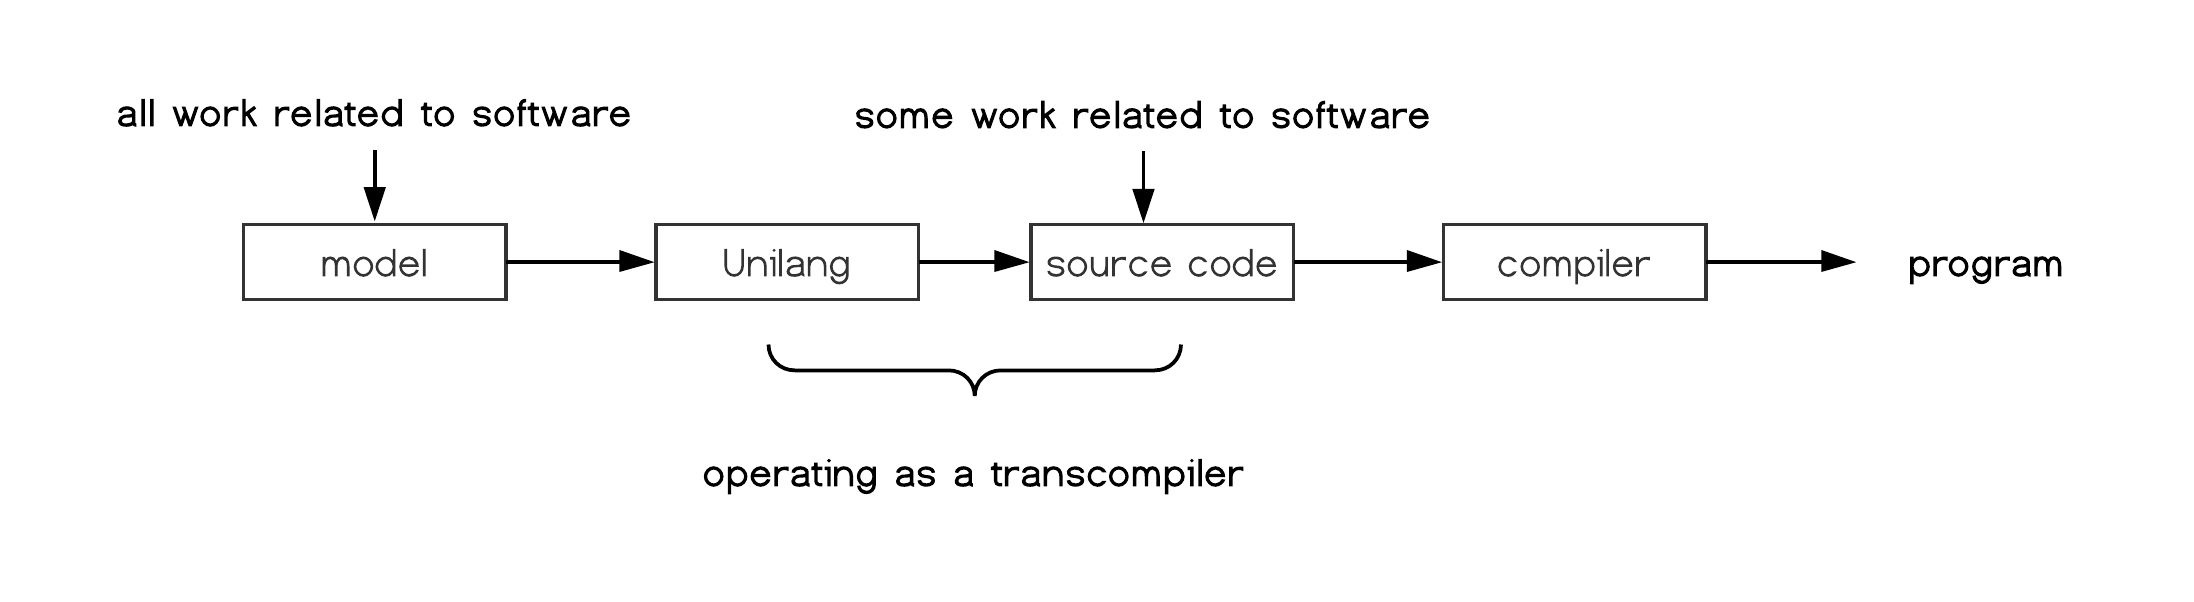
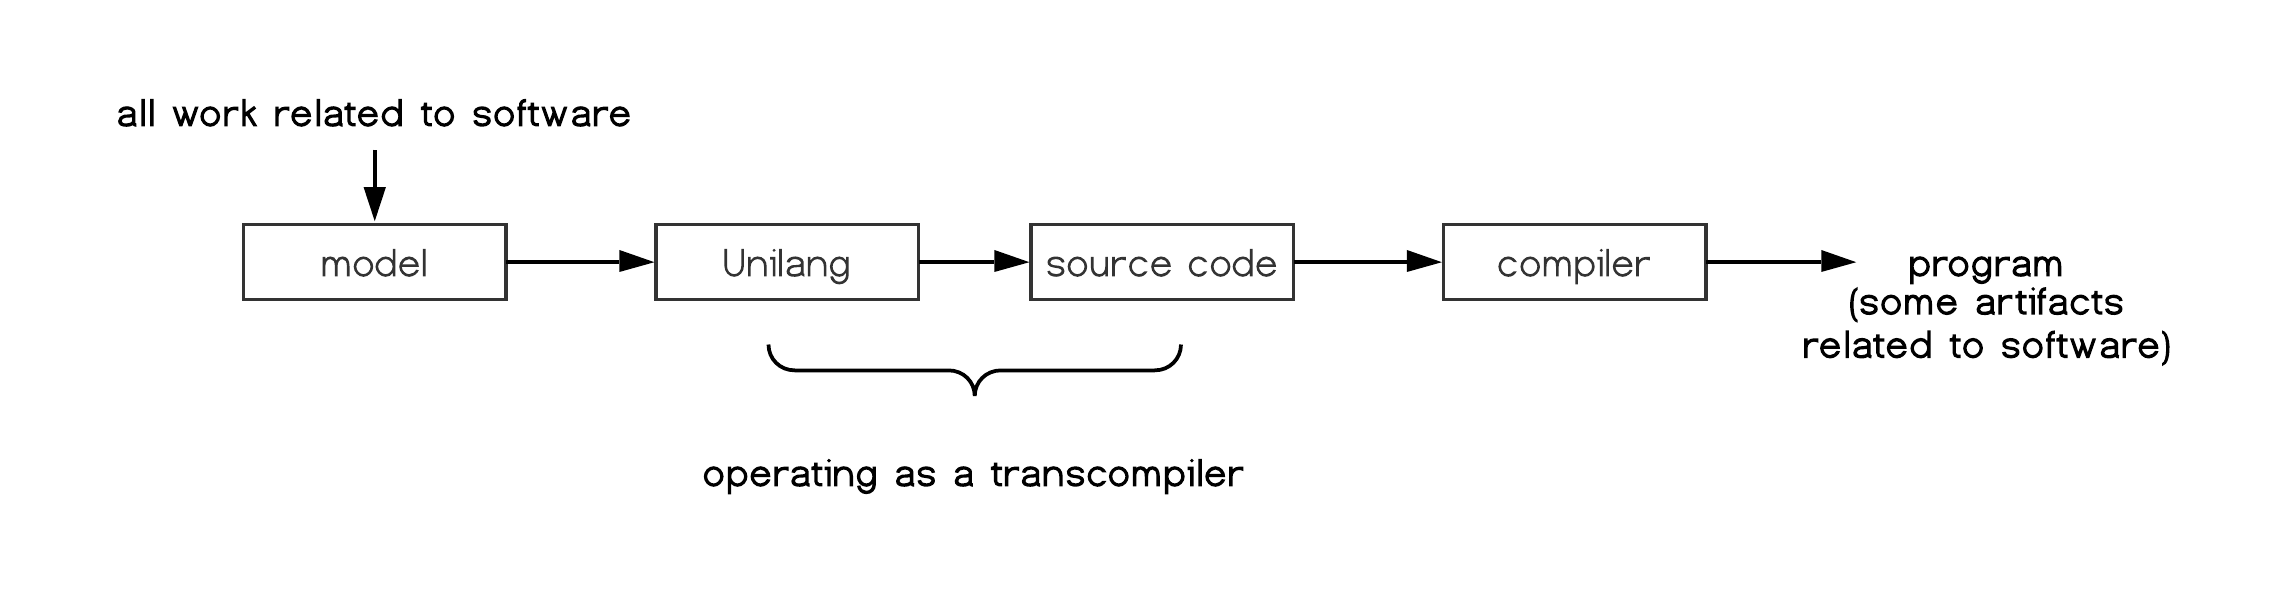
updates

diff --git a/README.md b/README.md
@@ -8,22 +8,24 @@
 # Introduction
 
 ## Overview
-Welcome to the world of Unilang.  In this section we'll provide a high level overview on what unilang does.  You will gain an understanding of how unilang compares to other programming languages, and through this comparison, how it is fundamentally different.  We'll start by getting you acquainted with the big picture.  Unilang is a tool for writing software.  And like all tools in software, it takes an input and produces an output.  The scope of unilang's throughput however is ambitious.  Everything a software engineer can express around a problem domain must be encoded in the same ontology.  We find this necessary in maximizing our current understanding of the problem domain, and adapting to its change over time.  The output of this ontology is every chosen artifact that facilitates desired tasks in that domain.  From a programming perspective, we unify all formal and informal languages involved around software.  This information is encoded as a single abstract data model which is used to create various artifacts.  
-![very high level overview of unilang](.readme/unilang_overview.png "")
+Welcome to the world of Unilang; the self proclaimed universal programming language.  Unilang is a reconstructed approach on how language should be used to facilitate the creation of software.  In this introductory section we will give an overview on how Unilang is used in the context of software engineering.  We also compare Unilang with other programming languages to show the similarities and key differences between them.  The key take-away from this, is that Unilang is not competing with other programming languages.  It embraces them in its own implementation.  A primary focus when first introducing Unilang is a discussion around encoded information and software-related artifacts.  We discuss what engineers need to encode while working in a problem domain, and what products should come from such an encoding.  A conclusion is made that engineers are not encoding everything necessary due to the limitations and scope of individual tools.  The effect of not having a universal encoding results in multiple encodings across different languages which makes maintenance less feasible over time.  An argument is made that more concepts related to software must be semantically encoded at the language level.  How this is achieved from a practical perspective is explored later.  
+
+So let's start by getting you acquainted with the big picture.  Unilang is a tool for writing software.  And like all tools in software, it takes an input and produces an output.  The scope of Unilang's throughput however is ambitious.  Everything a software engineer can express around a problem domain must be encoded in the same ontology.  We find this necessary in maximizing our current understanding of the problem domain, and adapting to its change over time.  The output of this ontology is every chosen artifact that facilitates desired tasks in that domain.  From a programming perspective, we unify all formal and informal languages involved around software.  This information is encoded as a single abstract data model which is used to create various artifacts.  
+![very high level overview of Unilang](.readme/unilang_overview.png "")
 
 The diagram above is intentionally vague.  However, we can use it to compare the transformation process of source code in other programing languages.  The scope of these other languages do not entail all of the work that needs to be done in a real-world software engineering context.  
 ![high level overview of a GPL](.readme/typical_gpl_overview.png "")
 
-The goals of general purpose programming languages (GPLs) shwon above, are also realized within Unilang.  Unilang can be used to generate programs for any domain.  A key feature of unilang is that it can even target the source code of all other GPLs.  This means that unilang can be easily adopted in current systems as a transcompiler to other programming languages.  
-![unilang as a transcompiler](.readme/unilang_as_a_transcompiler.png "")
+The goals of general purpose programming languages (GPLs) shown above, are also realized within Unilang.  Unilang can be used to generate programs for any domain.  A key feature of Unilang is that it can even target the source code of all other GPLs.  This means that Unilang can be easily adopted in current systems as a transcompiler to other programming languages.  
+![Unilang as a transcompiler](.readme/unilang_as_a_transcompiler.png "")
 
 There are many other types of artifacts that should be created alongside software.  Unilang facilitates the creation of these artifacts as well.  
-![unilang to many artifacts](.readme/unilang_to_many_artifacts.png "")
+![Unilang to many artifacts](.readme/unilang_to_many_artifacts.png "")
 
 In fact, what you are reading now was generated from Unilang.  
 
 ## Motivation
-TODO.  
+The motivation behind Unilang has grown organically while working as a software engineer.  It serves a purpose both practical and personal from working in the industry.  In this section we will cover the specific motivations around Unilang.  
 
 ### Practical
 TODO.  
@@ -32,28 +34,36 @@ TODO.
 TODO.  
 
 # Language Design
-In this section, we will discuss the theory of what a programming language should be.  We show how these ideas are applied in shaping the design of unilang.  
+In this section, we will discuss the theory of what a programming language should be.  We show how these ideas are applied in shaping the design of Unilang.  
 
 ## The hierarchy of language
 Consider the current language abstractions within the software engineering domain.  Unilang and its conceptual model are placed above these high level languages.  
-![software engineering language abstraction with unilang placed at the top](.readme/language-abstraction.png "")
+![software engineering language abstraction with Unilang placed at the top](.readme/language-abstraction.png "")
 
 Unilang can transcompile down to other languages.  
 
 ## The structure of language
-Many programming languages represent their syntactic structure as an abstract syntax tree.  Other languages like Lisp and its derivations choose nested lists.  The structure of unilang is a composed set of algebraic data types.  
-![choosing the unilang structure](.readme/choosing-structure.png "")
+Many programming languages represent their syntactic structure as an abstract syntax tree.  Other languages like Lisp and its derivations choose nested lists.  The structure of Unilang is a composed set of algebraic data types.  
+![choosing the Unilang structure](.readme/choosing-structure.png "")
 
 This is a subtle but important distinction.  An ADT models the concise structure and shape of programming concepts.  This allows us to work backwards and enable programmers to efficiently populate this structure.  Trying to contort a variety of programming concepts syntactically, and then extracting them out with regular expressions and grammars into generic data structures such as trees and lists has proven insufficient for semantic analysis.  Its the reason that parsing errors are often confusing and unhelpful.  Its the reason that community tooling on code transformation is often limited.  Most importantly, its the reason a language's evolution tends to stagnate as more abstract concepts are squeezed into an existing syntax and grammar.  
 
-## The look of language
-TODO. this is where we talk about discrete infinity.  
+## Reading and writing ergonomics
+TODO. this is where we talk about discrete infinity.  TODO. this is where we talk about projectional editors.  
 
-## The touch of language
-TODO. this is where we talk about projectional editors.  
+## Guiding Principles
+
+### Syntax
+Syntax doesn't matter. It never has, and it never will.  We eliminate syntax complexity through unique symbolic tokens.  Unilang pulls from Unicode's Private Use Area (PUA).  As a result, no matter how many tokens get added the the language, the lexical and syntactical analysis remains trivial.  Unilang comes with its own font, but users can choose their own glyphs to represent individual code points.  Although Unilang could equally be represented in a markup format such as json or yaml, we provide the unicode textual frontend as it tends to look simpler, allow for custom glyphs, and is easy to colorize in editors.  User's can choose to write directly in this unicode format, or use the graphical system built on top of it.  
+![Unilang's frontend perspectives vs developer experience](.readme/unilang-look.png "")
+
+
+
+### Grammar
+You can express anything in any order assuming that it makes sense conceptually.  Semantic analysis builds an ADT nearly identical to the tokens you write.  You can leave many token out, and based on various configurations, you will get default values, automated enrichments, or descriptive errors.  So many languages have bad compiler errors.  You will not find this in Unilang due to the rich token set and easy to understand grammar.  
 
 # Developing Unilang
-TODO. here we talk about information for anyone who wants to contribute to the unilang project.  
+TODO. here we talk about information for anyone who wants to contribute to the Unilang project.  
 
 ## Build System
 TODO.  
@@ -63,3 +73,6 @@ The project is designed to be hermetic.  This means that all external dependenci
 ![diagram of the build system](.readme/build-system.png "")
 
 
+
+## Contribute
+There are no rules.  Make a ticket about anything.  We'll figure it out together.  
